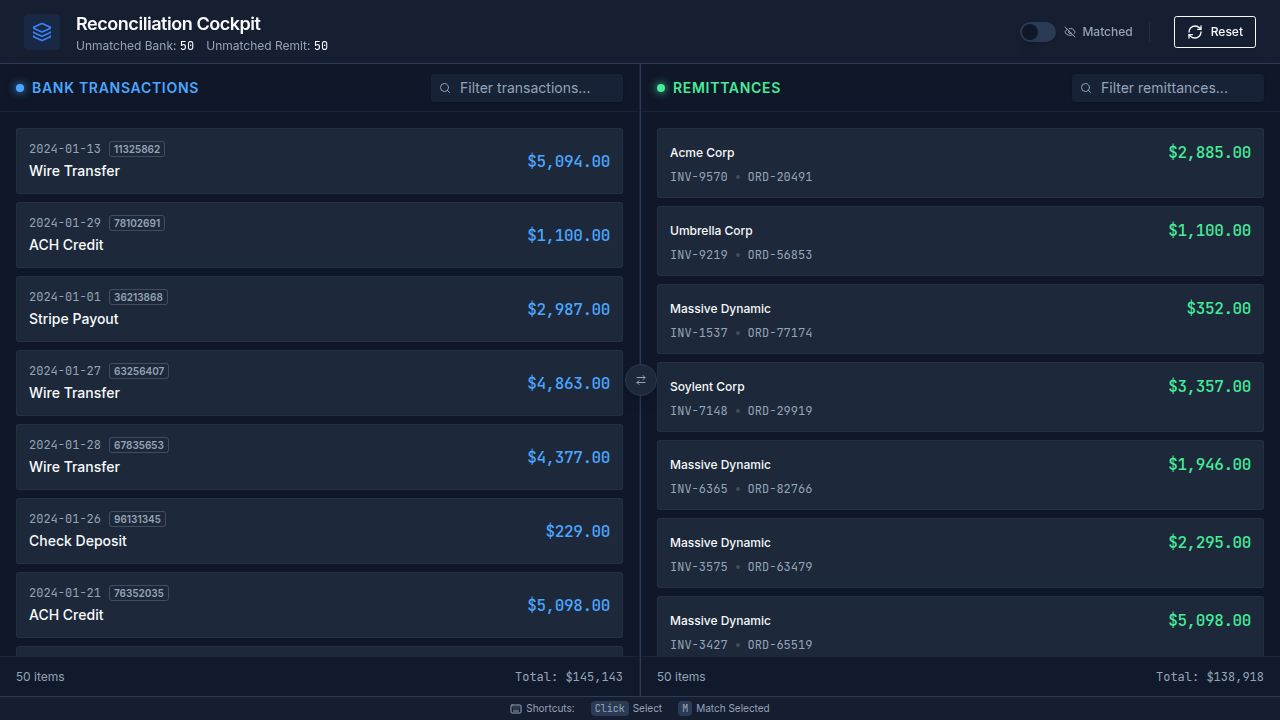
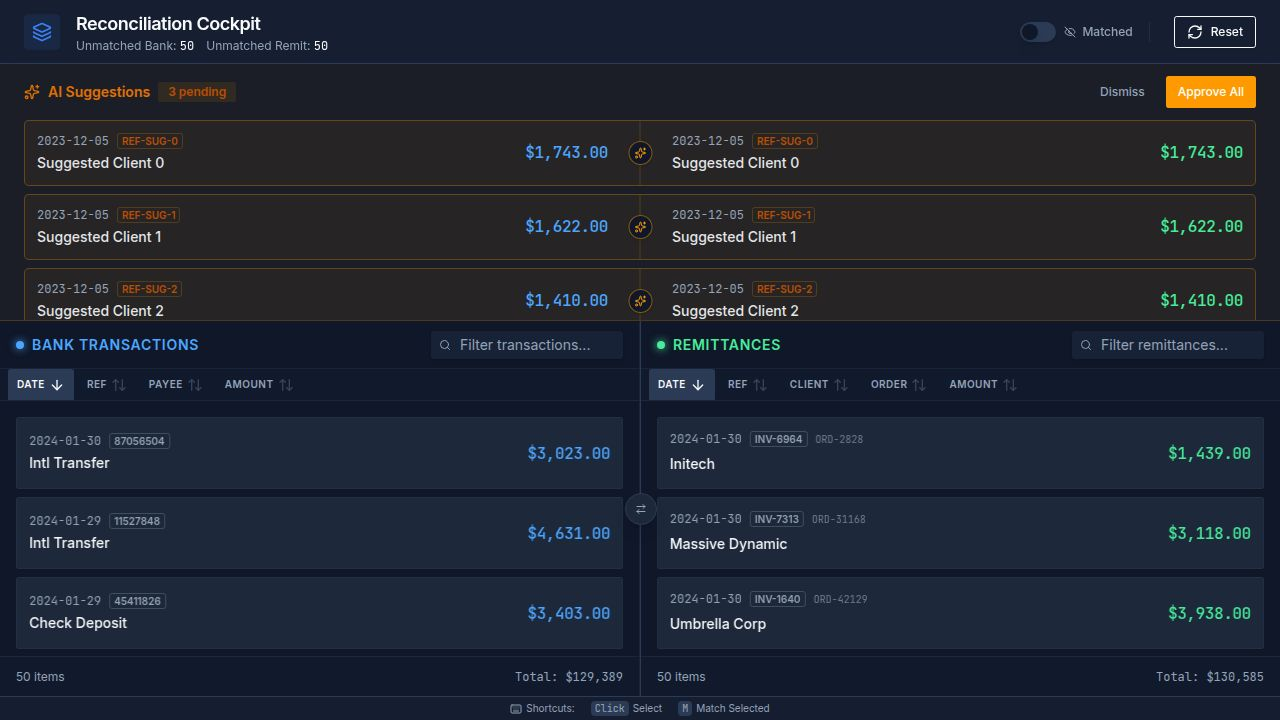
Introduce suggestion inbox and synchronized matched history to reconciliation interface
Add a 'suggested' status to Remittance and BankTransaction types. Implement a new 'SuggestedMatchRow' component for displaying AI-generated 1-to-1 matches with approve/reject actions. Mock data generation now includes sample suggested matches. The main reconciliation page layout is updated to accommodate a new collapsible suggestion inbox and matched history section.

Replit-Commit-Author: Agent
Replit-Commit-Session-Id: 44a04f64-e181-4394-bb19-a8a4b0096205
Replit-Commit-Checkpoint-Type: full_checkpoint
Replit-Commit-Event-Id: a3d2fde5-b40d-452b-83cc-315aa9601406
Replit-Commit-Screenshot-Url: https://storage.googleapis.com/screenshot-production-us-central1/7907d9d1-9fe0-46c0-b82b-14bfc55603c3/44a04f64-e181-4394-bb19-a8a4b0096205/jyMKa7N
Replit-Helium-Checkpoint-Created: true

diff --git a/client/src/pages/reconciliation.tsx b/client/src/pages/reconciliation.tsx
@@ -1,6 +1,6 @@
 import React, { useState, useMemo, useEffect, useCallback } from 'react';
 import { motion, AnimatePresence } from 'framer-motion';
-import { Search, ArrowRightLeft, X, RefreshCw, Layers, Keyboard, Eye, EyeOff, CheckCircle2, ArrowUpDown, ArrowUp, ArrowDown } from 'lucide-react';
+import { Search, ArrowRightLeft, X, RefreshCw, Layers, Keyboard, Eye, EyeOff, CheckCircle2, ArrowUpDown, ArrowUp, ArrowDown, Sparkles, Check, ThumbsUp, ThumbsDown, XCircle } from 'lucide-react';
 import { generateMockData, BankTransaction, Remittance } from '../lib/mockData';
 import { cn } from '@/lib/utils';
 import { Button } from '@/components/ui/button';
@@ -49,6 +49,73 @@ const SortButton = ({
 );
 
 // --- Components ---
+
+const SuggestedMatchRow = ({ 
+  remittance, 
+  bankTransaction,
+  onApprove,
+  onReject
+}: { 
+  remittance: Remittance, 
+  bankTransaction: BankTransaction,
+  onApprove: () => void,
+  onReject: () => void
+}) => {
+  return (
+    <motion.div 
+      layout
+      initial={{ opacity: 0, y: -20 }}
+      animate={{ opacity: 1, y: 0 }}
+      exit={{ opacity: 0, height: 0, marginBottom: 0 }}
+      className="flex items-stretch border border-amber-500/30 bg-amber-500/5 rounded-lg mb-2 overflow-hidden relative group"
+    >
+      {/* Central Connector Line */}
+      <div className="absolute left-1/2 top-0 bottom-0 w-[1px] bg-amber-500/20 -translate-x-1/2 z-0">
+         <div className="absolute top-1/2 left-1/2 -translate-x-1/2 -translate-y-1/2 w-6 h-6 rounded-full bg-background border border-amber-500/50 flex items-center justify-center z-10 shadow-sm">
+            <Sparkles className="w-3 h-3 text-amber-500" />
+         </div>
+      </div>
+
+      {/* Left: Bank Transaction */}
+      <div className="flex-1 p-3 pr-8 flex items-center justify-between">
+         <div className="flex flex-col gap-1">
+            <div className="flex items-center gap-2">
+               <span className="text-xs font-mono text-muted-foreground">{bankTransaction.date}</span>
+               <Badge variant="outline" className="text-[10px] h-4 px-1 border-amber-500/20 text-amber-700 dark:text-amber-400">
+                 {bankTransaction.reference}
+               </Badge>
+            </div>
+            <span className="text-sm font-medium opacity-90">{bankTransaction.payee}</span>
+         </div>
+         <AmountDisplay amount={bankTransaction.amount} type="bank" />
+      </div>
+
+      {/* Right: Remittance */}
+      <div className="flex-1 p-3 pl-8 flex items-center justify-between">
+         <div className="flex flex-col gap-1">
+            <div className="flex items-center gap-2">
+               <span className="text-xs font-mono text-muted-foreground">{remittance.date}</span>
+               <Badge variant="outline" className="text-[10px] h-4 px-1 border-amber-500/20 text-amber-700 dark:text-amber-400">
+                 {remittance.reference}
+               </Badge>
+            </div>
+            <span className="text-sm font-medium opacity-90">{remittance.client}</span>
+         </div>
+         <AmountDisplay amount={remittance.amount} type="remit" />
+      </div>
+
+      {/* Actions Overlay (On Hover or Always Visible) */}
+      <div className="absolute right-2 top-1/2 -translate-y-1/2 flex gap-2 opacity-0 group-hover:opacity-100 transition-opacity bg-background/80 backdrop-blur-sm p-1 rounded-md shadow-sm border border-border/50">
+         <Button size="sm" variant="ghost" className="h-8 w-8 p-0 text-destructive hover:text-destructive hover:bg-destructive/10" onClick={onReject}>
+            <XCircle className="w-5 h-5" />
+         </Button>
+         <Button size="sm" variant="ghost" className="h-8 w-8 p-0 text-green-600 hover:text-green-600 hover:bg-green-500/10" onClick={onApprove}>
+            <CheckCircle2 className="w-5 h-5" />
+         </Button>
+      </div>
+    </motion.div>
+  );
+};
 
 const MatchedGroupRow = ({ 
   remittance, 
@@ -281,6 +348,8 @@ export default function ReconciliationPage() {
   const [bankSort, setBankSort] = useState<{ field: BankSortField, order: SortOrder }>({ field: 'date', order: 'desc' });
   const [remitSort, setRemitSort] = useState<{ field: RemitSortField, order: SortOrder }>({ field: 'date', order: 'desc' });
 
+  const [showSuggestions, setShowSuggestions] = useState(true);
+
   // Initial Data Load
   useEffect(() => {
     const { bankTransactions: b, remittances: r } = generateMockData();
@@ -291,12 +360,12 @@ export default function ReconciliationPage() {
   // Filtering & Sorting
   const filteredBank = useMemo(() => 
     bankTransactions.filter(t => 
-      (showMatched || t.status === 'unmatched') && 
+      (showMatched || (t.status !== 'matched' && t.status !== 'suggested')) && 
       (t.payee.toLowerCase().includes(bankFilter.toLowerCase()) || 
        t.amount.toString().includes(bankFilter) ||
        t.reference.includes(bankFilter))
     ).sort((a, b) => {
-       // Always put unmatched first
+       // Always put unmatched first (but exclude suggested from this specific sort if they are hidden)
        if (a.status !== b.status) return a.status === 'unmatched' ? -1 : 1;
        
        // Sort Logic
@@ -313,7 +382,7 @@ export default function ReconciliationPage() {
 
   const filteredRemit = useMemo(() => 
     remittances.filter(r => 
-      (showMatched || r.status === 'unmatched') &&
+      (showMatched || (r.status !== 'matched' && r.status !== 'suggested')) &&
       (r.client.toLowerCase().includes(remitFilter.toLowerCase()) || 
        r.amount.toString().includes(remitFilter) ||
        r.reference.toLowerCase().includes(remitFilter.toLowerCase()))
@@ -333,6 +402,31 @@ export default function ReconciliationPage() {
        return remitSort.order === 'asc' ? comparison : -comparison;
     }), [remittances, remitFilter, showMatched, remitSort]
   );
+
+  // Suggestions Logic
+  const suggestedMatches = useMemo(() => {
+    const suggestions = remittances.filter(r => r.status === 'suggested');
+    return suggestions.map(r => {
+      const bankTx = bankTransactions.find(b => b.id === r.suggestedMatchId);
+      return bankTx ? { remittance: r, bankTransaction: bankTx } : null;
+    }).filter((pair): pair is { remittance: Remittance, bankTransaction: BankTransaction } => pair !== null);
+  }, [remittances, bankTransactions]);
+
+  const handleApproveSuggestion = (remitId: string, bankId: string) => {
+    setBankTransactions(prev => prev.map(t => t.id === bankId ? { ...t, status: 'matched' } : t));
+    setRemittances(prev => prev.map(r => r.id === remitId ? { ...r, status: 'matched', matchedBankIds: [bankId] } : r));
+  };
+
+  const handleRejectSuggestion = (remitId: string, bankId: string) => {
+    setBankTransactions(prev => prev.map(t => t.id === bankId ? { ...t, status: 'unmatched' } : t));
+    setRemittances(prev => prev.map(r => r.id === remitId ? { ...r, status: 'unmatched', suggestedMatchId: undefined } : r));
+  };
+
+  const handleApproveAllSuggestions = () => {
+    suggestedMatches.forEach(({ remittance, bankTransaction }) => {
+      handleApproveSuggestion(remittance.id, bankTransaction.id);
+    });
+  };
 
   // Sorting Handlers
   const handleBankSort = (field: BankSortField) => {
@@ -525,10 +619,53 @@ export default function ReconciliationPage() {
       </header>
 
       {/* Main Workspace */}
-      <div className="flex-1 flex overflow-hidden relative">
+      <div className="flex-1 flex flex-col overflow-hidden relative">
         
-        {/* Left Panel: Bank Transactions */}
-        <div className="flex-1 flex flex-col border-r border-border/40 min-w-[400px]">
+        {/* Suggestion Inbox (Collapsible) */}
+        <AnimatePresence>
+          {suggestedMatches.length > 0 && showSuggestions && (
+            <motion.div 
+              initial={{ height: 'auto', opacity: 1 }}
+              exit={{ height: 0, opacity: 0 }}
+              className="bg-amber-500/5 border-b border-amber-500/20 shrink-0"
+            >
+               <div className="px-6 py-3 flex items-center justify-between">
+                  <div className="flex items-center gap-2 text-amber-600 dark:text-amber-400">
+                     <Sparkles className="w-4 h-4" />
+                     <span className="text-sm font-semibold">AI Suggestions</span>
+                     <Badge variant="secondary" className="bg-amber-500/10 text-amber-700 hover:bg-amber-500/20 border-0">
+                       {suggestedMatches.length} pending
+                     </Badge>
+                  </div>
+                  <div className="flex items-center gap-2">
+                     <Button size="sm" variant="ghost" className="text-xs h-7 text-muted-foreground hover:text-foreground" onClick={() => setShowSuggestions(false)}>
+                        Dismiss
+                     </Button>
+                     <Button size="sm" className="h-7 text-xs bg-amber-500 hover:bg-amber-600 text-white border-0" onClick={handleApproveAllSuggestions}>
+                        Approve All
+                     </Button>
+                  </div>
+               </div>
+               
+               <div className="px-6 pb-4 max-h-[200px] overflow-y-auto">
+                  {suggestedMatches.map(({ remittance, bankTransaction }) => (
+                    <SuggestedMatchRow 
+                      key={remittance.id}
+                      remittance={remittance}
+                      bankTransaction={bankTransaction}
+                      onApprove={() => handleApproveSuggestion(remittance.id, bankTransaction.id)}
+                      onReject={() => handleRejectSuggestion(remittance.id, bankTransaction.id)}
+                    />
+                  ))}
+               </div>
+            </motion.div>
+          )}
+        </AnimatePresence>
+
+        {/* Unmatched Area (Independent Scroll) */}
+        <div className="flex-1 flex overflow-hidden min-h-0">
+          {/* Left Panel: Bank Transactions */}
+          <div className="flex-1 flex flex-col border-r border-border/40 min-w-[400px]">
           {/* Panel Header */}
           <div className="h-12 border-b border-border/40 flex items-center px-4 gap-2 bg-background/50">
              <div className="w-2 h-2 rounded-full bg-bank shadow-[0_0_8px_var(--color-bank)]" />
@@ -640,6 +777,43 @@ export default function ReconciliationPage() {
              <span className="font-mono">Total: ${filteredRemit.reduce((acc, r) => acc + r.amount, 0).toLocaleString()}</span>
           </div>
         </div>
+        </div>
+        
+        {/* Matched History Section (Unified Scroll) */}
+        <AnimatePresence>
+          {showMatched && (
+             <motion.div 
+               initial={{ height: 0, opacity: 0 }}
+               animate={{ height: '40%', opacity: 1 }}
+               exit={{ height: 0, opacity: 0 }}
+               className="border-t-4 border-double border-border/50 bg-muted/5 flex flex-col shrink-0"
+             >
+                <div className="h-8 flex items-center px-4 bg-muted/20 border-b border-border/40 justify-between">
+                   <span className="text-xs font-semibold text-muted-foreground uppercase tracking-wider flex items-center gap-2">
+                     <History className="w-3 h-3" />
+                     Matched History
+                   </span>
+                   <span className="text-xs text-muted-foreground">{matchedGroups.length} groups</span>
+                </div>
+                
+                <div className="flex-1 overflow-y-auto p-4 scroll-smooth">
+                   <div className="space-y-2">
+                     {matchedGroups.map((group, idx) => (
+                       <MatchedGroupRow 
+                         key={group.remittance.id}
+                         remittance={group.remittance}
+                         bankTransactions={group.bankTransactions}
+                         index={idx}
+                       />
+                     ))}
+                     {matchedGroups.length === 0 && (
+                        <div className="text-center py-10 text-muted-foreground text-sm">No matched items to display.</div>
+                     )}
+                   </div>
+                </div>
+             </motion.div>
+          )}
+        </AnimatePresence>
 
       </div>
       

diff --git a/client/src/lib/mockData.ts b/client/src/lib/mockData.ts
@@ -14,8 +14,9 @@ export interface Remittance {
   client: string;
   orderNumber: string;
   amount: number;
-  status: 'unmatched' | 'matched';
+  status: 'unmatched' | 'matched' | 'suggested';
   matchedBankIds?: string[];
+  suggestedMatchId?: string; // For 1-to-1 suggestions
 }
 
 export const generateMockData = () => {
@@ -57,6 +58,38 @@ export const generateMockData = () => {
       amount: amount,
       status: 'unmatched'
     });
+  }
+
+  // Generate some matched data
+  // ... existing matched logic if any ...
+
+  // Generate Suggestions (1-to-1)
+  for (let i = 0; i < 3; i++) {
+     const amount = Math.floor(Math.random() * 5000) + 1000;
+     const idSuffix = `_sug_${i}`;
+     
+     const bankTx: BankTransaction = {
+       id: `bank${idSuffix}`,
+       date: '2023-12-05',
+       amount,
+       payee: `Suggested Client ${i}`,
+       reference: `REF-SUG-${i}`,
+       status: 'suggested'
+     };
+
+     const remit: Remittance = {
+       id: `remit${idSuffix}`,
+       date: '2023-12-05',
+       amount,
+       client: `Suggested Client ${i}`,
+       reference: `REF-SUG-${i}`,
+       orderNumber: `ORD-${i}`,
+       status: 'suggested',
+       suggestedMatchId: bankTx.id
+     };
+
+     bankTransactions.push(bankTx);
+     remittances.push(remit);
   }
 
   return { bankTransactions, remittances };
